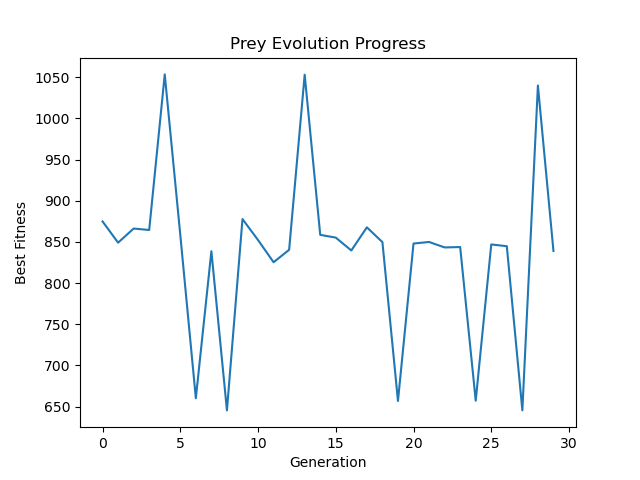
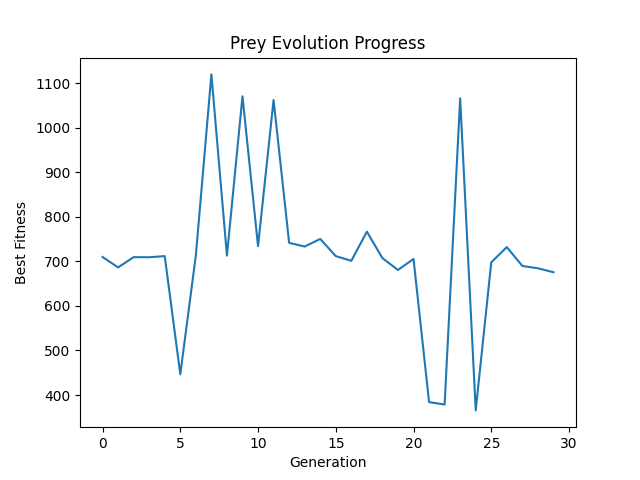
updating prey fitness against pred to reward evading movements

diff --git a/src/neat_utils/fitness.py b/src/neat_utils/fitness.py
@@ -27,15 +27,25 @@ def prey_fitness(ep):
 
 def prey_fitness_against_predator(ep):
     
-    # higher fitness for surviving more time and ending far from predator
-    
+    import numpy as np
 
-    survival_bonus = ep.steps             # max 500
-    distance_bonus = ep.final_distance    # typically 0–100
+    # 1. survive as long as possible
+    fitness = ep.steps * 2.0   # up to 1000
 
-    # if prey survives entire episode -> huge reward
-    if not ep.captured:
-        return survival_bonus * 2 + distance_bonus
+    # 2. average distance during the whole episode
+    dists = [np.linalg.norm(pred - prey) for pred, prey in ep.trace]
+    avg_distance = np.mean(dists)
+    fitness += avg_distance
 
-    # if captured early -> punish
-    return survival_bonus * 0.5 + distance_bonus
+    # 3. reward movement -> prevents freezing
+    prey_positions = np.array([prey for _, prey in ep.trace])
+    deltas = np.diff(prey_positions, axis=0)
+    step_magnitudes = np.linalg.norm(deltas, axis=1)
+    total_motion = np.sum(step_magnitudes)
+    fitness += 0.5 * total_motion
+
+    # 4. penalty if caught
+    if ep.captured:
+        fitness -= 800
+
+    return fitness

diff --git a/src/core/simulation.py b/src/core/simulation.py
@@ -27,7 +27,15 @@ def run_episode(pred_controller, prey_controller,
         a_prey = prey_controller(obs_prey)
 
         _, info = env.step(a_pred, a_prey)
-        trace.append(info["positions"])
+        
+        # trace.append(info["positions"]) - changing to below to improve pred behavior
+        trace.append({
+            "pred_pos": info["positions"][0],
+            "prey_pos": info["positions"][1],
+            "pred_vel": info["pred_vel"],   
+            "prey_vel": info["prey_vel"],   
+            "distance": info["distance"],
+        })
         
         if info["captured"]:
             return EpisodeResult(t+1, True, info["distance"], trace)
